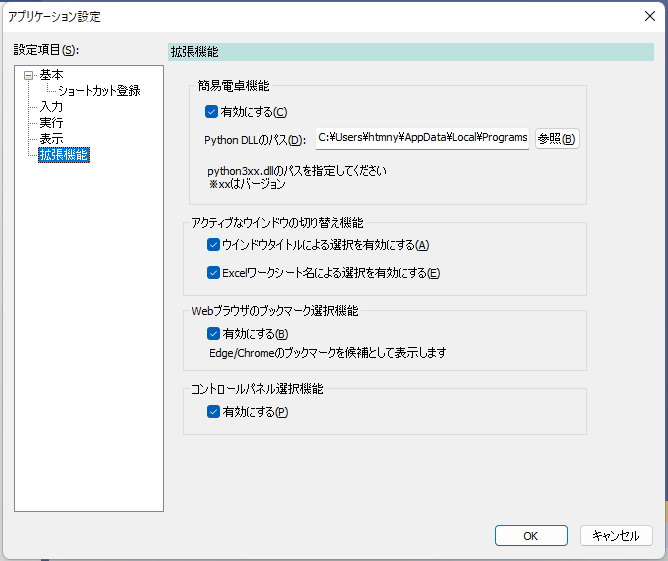
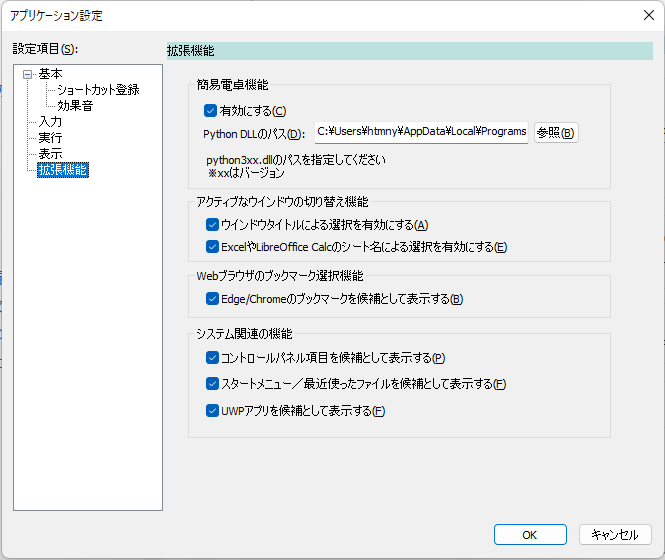
バージョン番号を変更(0.9.0)

diff --git a/doc/help.md b/doc/help.md
@@ -420,7 +420,6 @@ Soyokaze配置ディレクトリ/
     - チェックすると、スタートメニューに登録されたプログラムと、Windowsの`最近使ったファイル`に登録されたファイルを候補として表示・実行する
   - `UWPアプリを候補として表示する`
     - チェックすると、実行環境にインストールされているUWPアプリを候補として表示・実行する
-      - まだ試作
 
 ### 通常コマンドの登録・編集
 
@@ -668,8 +667,6 @@ Soyokaze配置ディレクトリ/
 - 環境変数の値を見る
 - ファイル名を指定して実行
 - 履歴
-- スタートメニューに登録された項目
-- 最近使ったファイル
 - 16進カラーコード
 - VMware PlayerのMRU
 
@@ -703,14 +700,6 @@ Soyokaze配置ディレクトリ/
 履歴として登録されたものは、次回以降のキーワード入力の際に部分一致で候補にあがるようになる。
 
 ![](../image/history.png)
-
-#### スタートメニューに登録された項目
-
-スタートメニューに登録されたプログラムを候補として表示し、実行することができる。
-
-#### 最近使ったファイル
-
-システムの`最近使ったファイル`に登録されたファイル名を候補として表示する。実行すると、ファイルを開くことができる。
 
 
 #### 16進カラーコード
@@ -780,6 +769,23 @@ Edge/Chromeのブックマークに対応している。
 
 ※ あとからインストールしたプログラムによって追加される項目は表示できない場合がある  
 (例: ハードウェアベンダのユーティリティやJavaのコントロールパネルなど)
+
+#### スタートメニューに登録された項目
+
+スタートメニューに登録されたプログラムを候補として表示し、実行することができる。
+
+#### 最近使ったファイル
+
+システムの`最近使ったファイル`に登録されたファイル名を候補として表示する。実行すると、ファイルを開くことができる。
+
+#### UWPアプリ(試作)
+
+システムにインストールされたUWPを候補として表示し、実行することができる。
+
+##### まだ試作
+
+レジストリからそれっぽい情報を拾って列挙してるだけなので、
+同じアプリが重複して複数表示されたり、ユーザが直接起動しなさそうなアプリを拾ってきたり、一部のアプリが拾えてなさそう、とかある。
 
 ## システムコマンド一覧
 
